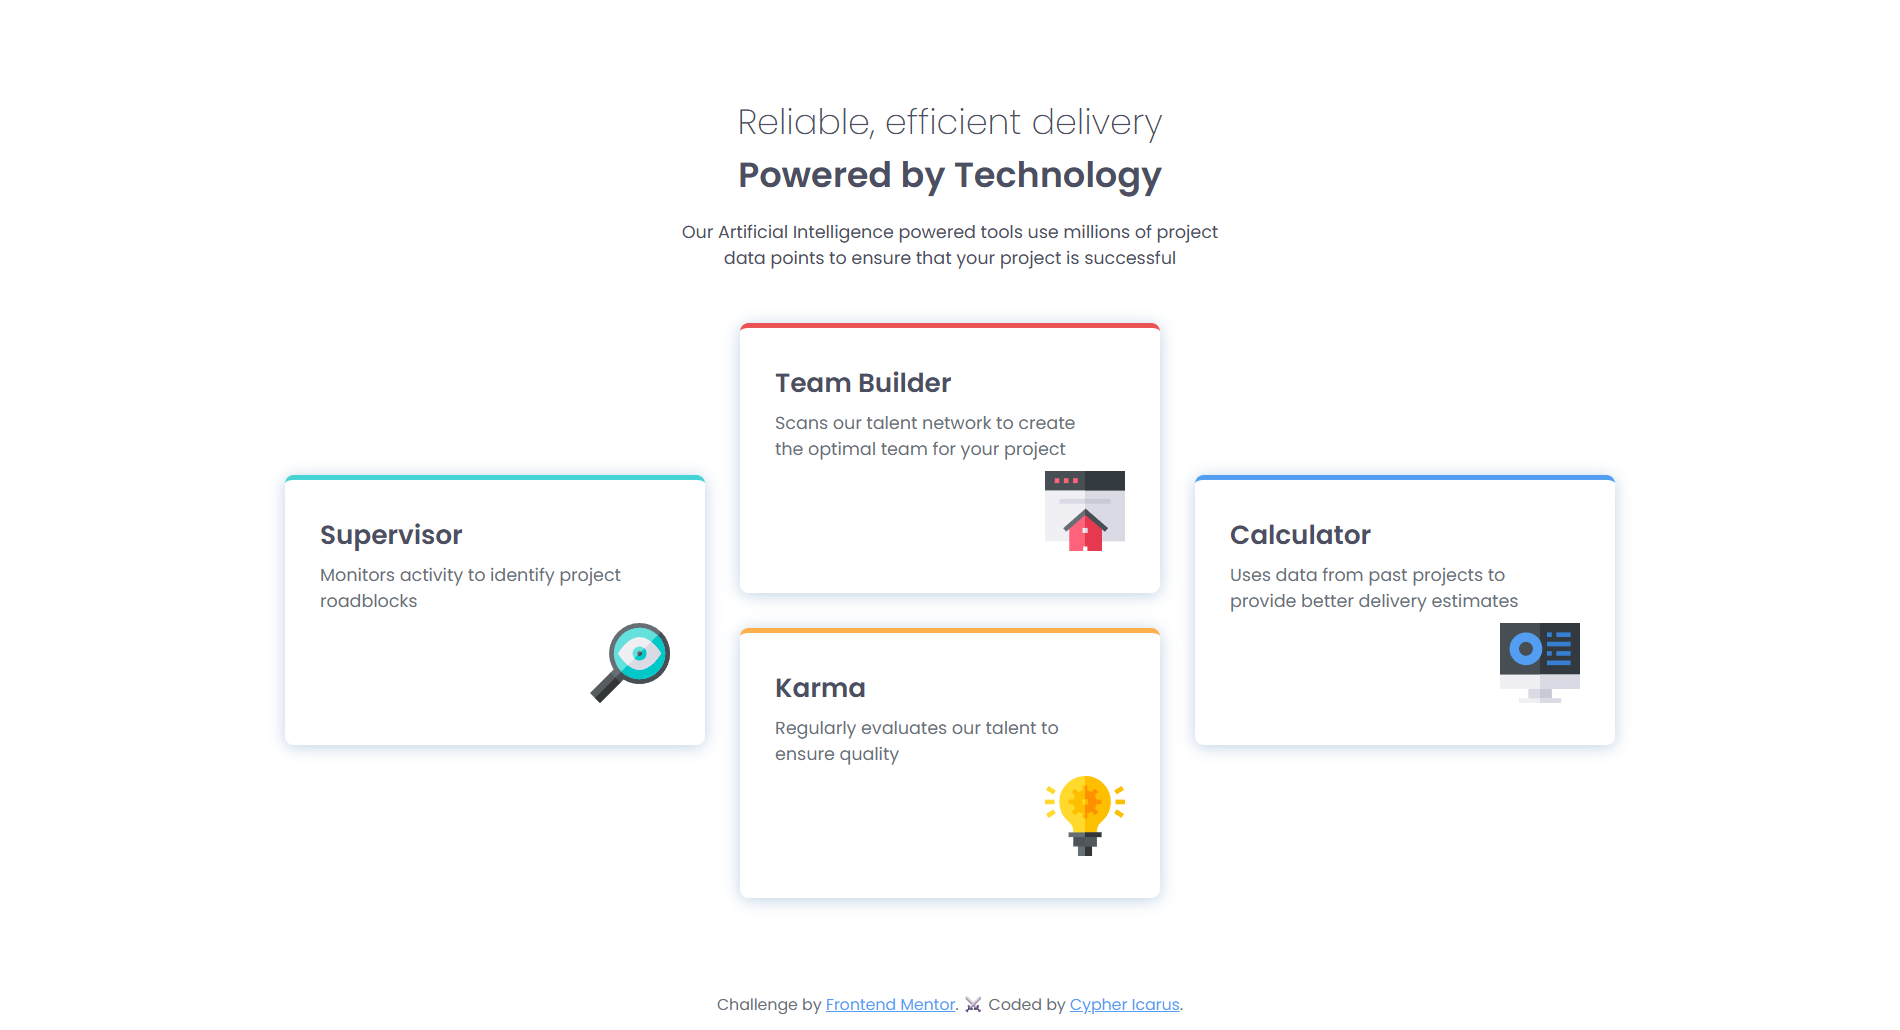
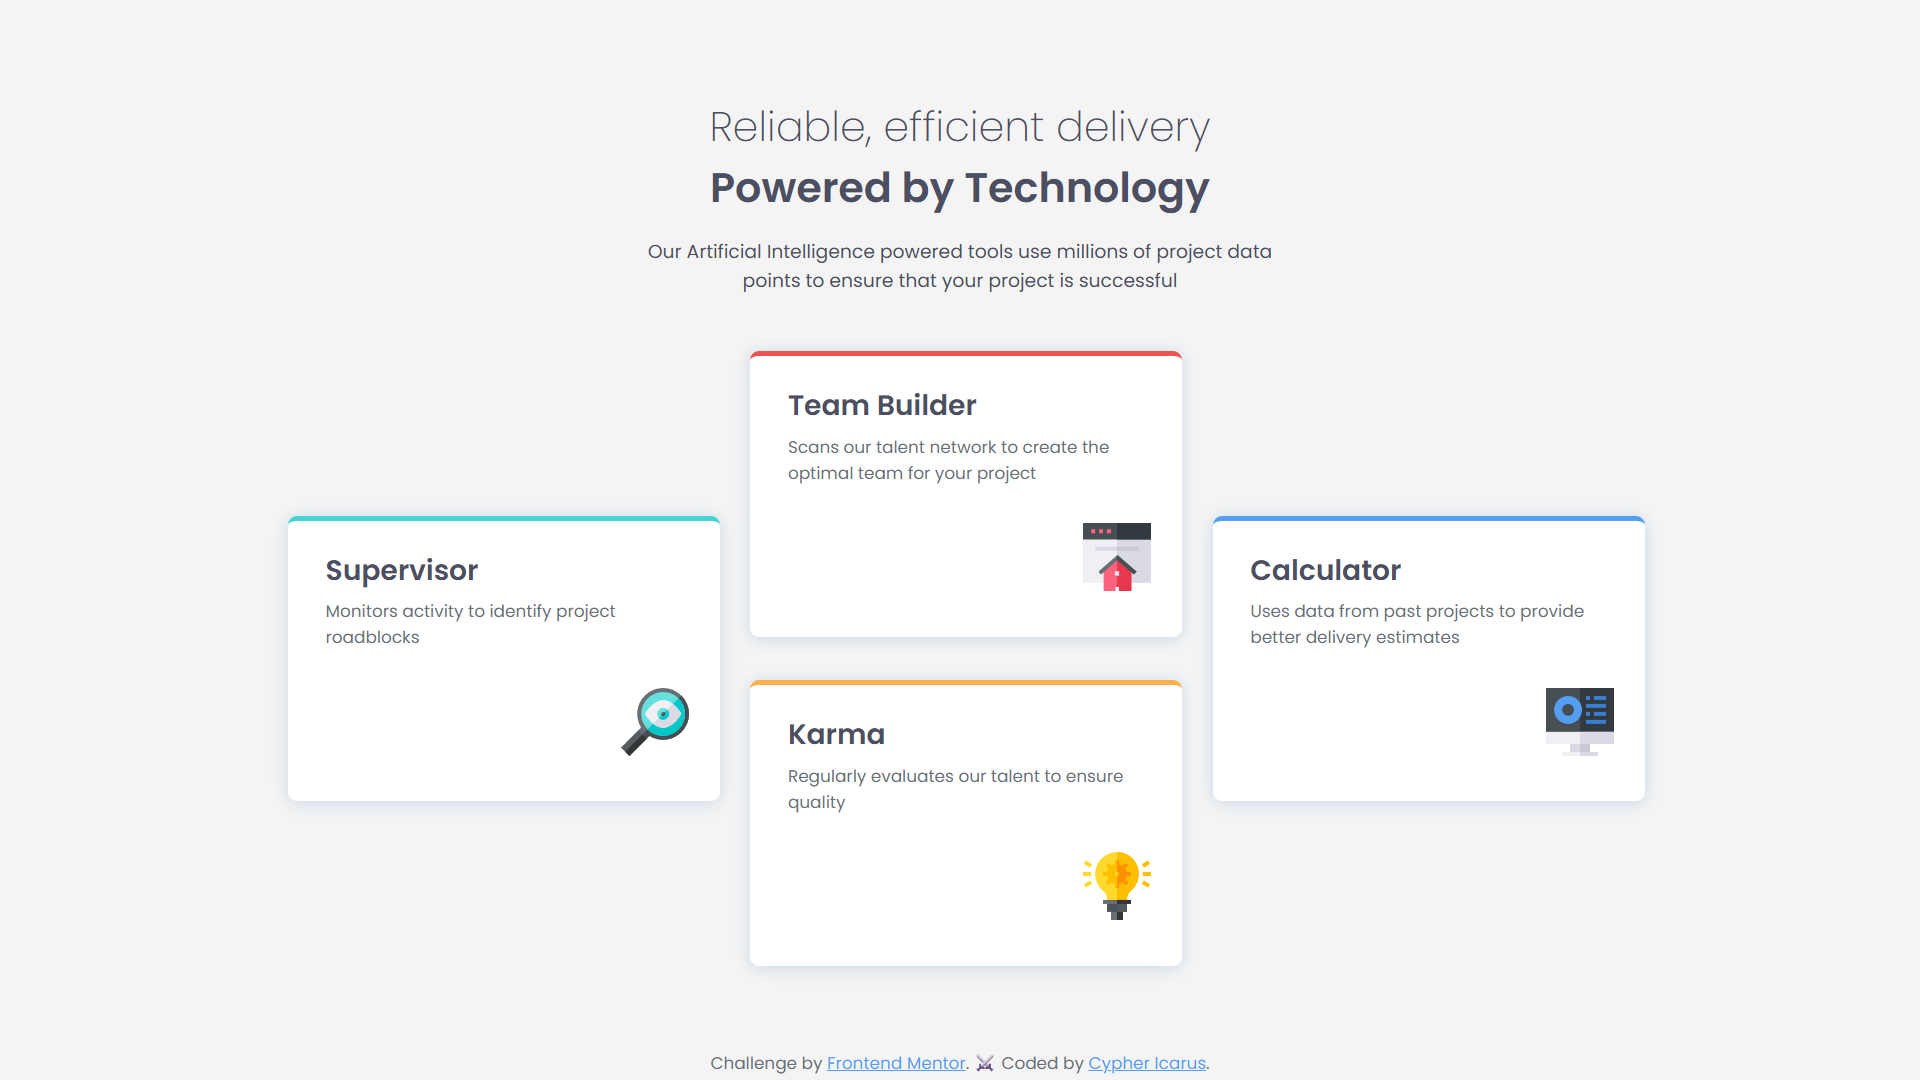
finalize four-card-feature-section

Changed region(s): [[0.1553, 0.3107, 0.8695, 0.901], [0.3416, 0.0932, 0.6521, 0.2796], [0.3726, 0.9631, 0.6211, 0.9942]]

diff --git a/four-card-feature-section/css/styles.css b/four-card-feature-section/css/styles.css
@@ -39,7 +39,7 @@
 
 html {
     font-family: Poppins, sans-serif;
-    font-size: 14px;
+    font-size: 15px;
 }
 
 * {
@@ -50,6 +50,7 @@ html {
 
 body {
     margin: 5% auto 0;
+    background: rgb(244, 244, 244);
 }
 
 .feature-card__header {
@@ -59,8 +60,12 @@ body {
     color: var(--grey-500);
 }
 
+.feature-card__title {
+    font-size: 2.2rem;
+}
+
 .feature-card__tagline {
-    font-size: 2em;
+    font-size: 2.2rem;
     font-weight: 200;
 }
 
@@ -74,20 +79,22 @@ body {
     text-align: center;
     margin: auto;
     color: var(--grey-500);
-    width: 43%;
+    width: 50%;
 }
 
 .feature-card {
     display: grid;
     grid-template: repeat(4, 1fr) / repeat(3, 1fr);
-    gap: 2em;
-    margin: 3em auto;
+    gap: 2.3rem;
+    margin: 3rem auto;
 }
 
 .feature-card__feature {
     border-radius: 0.5em;
-    box-shadow: 0 0.1em 0.9em rgb(192, 210, 229);
-    padding: 2em;
+    box-shadow: 0 0.1em 0.9em rgb(200, 214, 228);
+    padding: 1.5rem 1rem 2rem 2rem;
+    background-color: var(--white);
+    width: 103%;
 }
 
 .feature-card__feature:nth-child(1) {
@@ -114,14 +121,21 @@ body {
     justify-self: flex-end;
 }
 
+.feature-card__feature-icon img {
+    width: 85%;
+    height: auto;
+}
+
 .feature-card__feature-title {
     color: var(--grey-500);
 }
 
 .feature-card__feature-description {
     color: var(--grey-400);
-    padding-right: 2em;
+    padding-right: 0.5rem;
     margin: 0.4em auto;
+    font-size: 0.9rem;
+    margin-bottom: 2rem;
 }
 
 .feature-card__feature-icon {
@@ -132,7 +146,7 @@ body {
     color: var(--grey-400);
     font-size: 0.9rem;
     text-align: center;
-    margin: 6em auto 0;
+    margin: 5em auto 0;
 }
 
 .attribution a {
@@ -164,6 +178,14 @@ body {
     .feature-card__header {
         margin: 4em 1em 1em;
         padding: 0 0.3em;
+    }
+
+    .feature-card__title {
+        font-size: 1.8rem;
+    }
+
+    .feature-card__tagline {
+        font-size: 1.8rem;
     }
 
     .feature-card__main {
